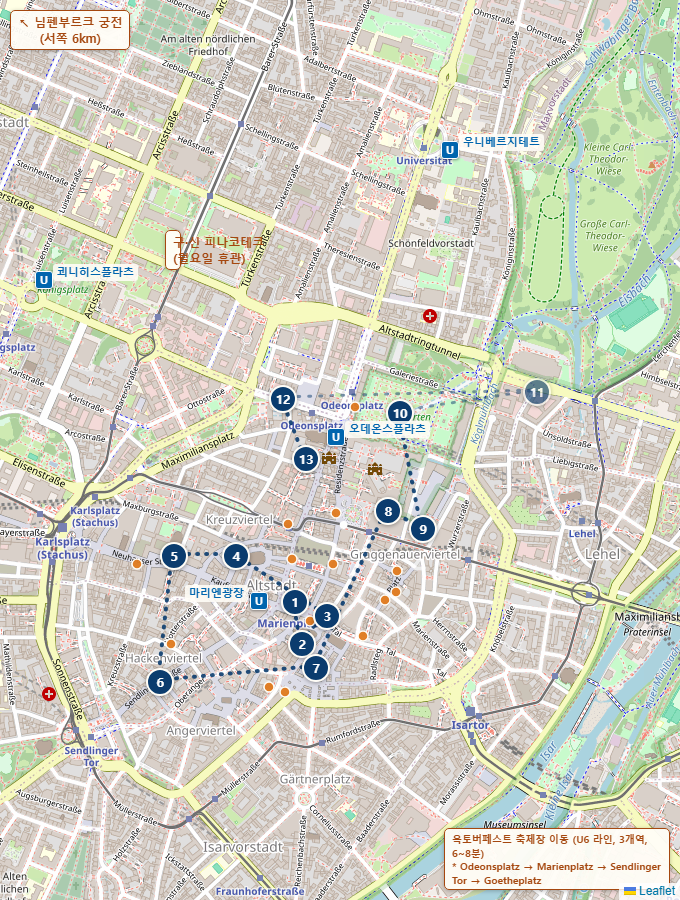
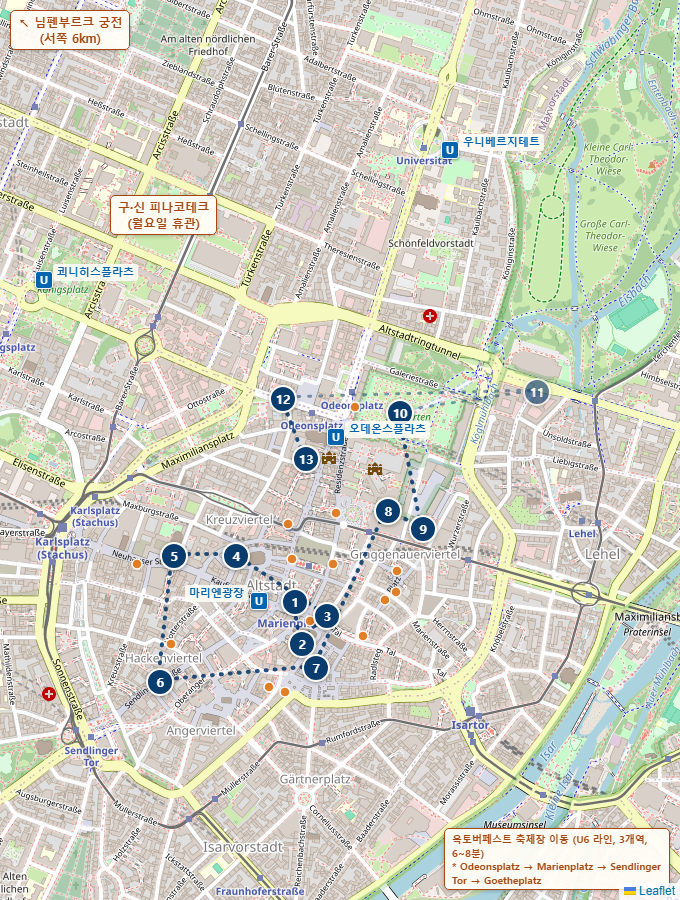
Fix clipped Pinakothek callout label on Munich route map
The old/new Pinakothek reference callout used an L.divIcon marker with
iconSize:[0,0], which clipped its own nowrap text. Rebuilt it as a
raw appended div (same technique already used for the Nymphenburg and
Oktoberfest callouts on this map), which renders with no clipping.

Changed region(s): [[0.1544, 0.2178, 0.3706, 0.3111]]

diff --git a/germany-roadtrip-planner.html b/germany-roadtrip-planner.html
@@ -1776,7 +1776,7 @@ document.addEventListener('DOMContentLoaded', function(){
       <a class="walk-map-link" href="https://www.google.com/maps/dir/?api=1&travelmode=walking&origin=48.1370,11.5758&destination=48.1421,11.5778&waypoints=48.1367%2C11.5756%7C48.1374%2C11.5761%7C48.1387%2C11.5730%7C48.1387%2C11.5703%7C48.1351%2C11.5697%7C48.1355%2C11.5764%7C48.1414%2C11.5786%7C48.1411%2C11.5794%7C48.1428%2C11.5800%7C48.1434%2C11.5859%7C48.1422%2C11.5767" target="_blank" rel="noopener">📍 Google 지도로 도보 코스 보기(마리엔광장역 출발 → 펠트헤른할레 도착) · 총 약 4.3km · 도보 약 56분</a>
       <div class="route-snapshot">
         <div class="route-snapshot-media">
-          <img src="images/routes/muenchen.png?v=11" alt="뮌헨 도보 코스 지도 스냅샷" loading="lazy">
+          <img src="images/routes/muenchen.png?v=12" alt="뮌헨 도보 코스 지도 스냅샷" loading="lazy">
         </div>
         <ol class="route-steps">
         <li><span class="rs-name">마리엔 광장(신시청)</span></li>

diff --git a/index.html b/index.html
@@ -1776,7 +1776,7 @@ document.addEventListener('DOMContentLoaded', function(){
       <a class="walk-map-link" href="https://www.google.com/maps/dir/?api=1&travelmode=walking&origin=48.1370,11.5758&destination=48.1421,11.5778&waypoints=48.1367%2C11.5756%7C48.1374%2C11.5761%7C48.1387%2C11.5730%7C48.1387%2C11.5703%7C48.1351%2C11.5697%7C48.1355%2C11.5764%7C48.1414%2C11.5786%7C48.1411%2C11.5794%7C48.1428%2C11.5800%7C48.1434%2C11.5859%7C48.1422%2C11.5767" target="_blank" rel="noopener">📍 Google 지도로 도보 코스 보기(마리엔광장역 출발 → 펠트헤른할레 도착) · 총 약 4.3km · 도보 약 56분</a>
       <div class="route-snapshot">
         <div class="route-snapshot-media">
-          <img src="images/routes/muenchen.png?v=11" alt="뮌헨 도보 코스 지도 스냅샷" loading="lazy">
+          <img src="images/routes/muenchen.png?v=12" alt="뮌헨 도보 코스 지도 스냅샷" loading="lazy">
         </div>
         <ol class="route-steps">
         <li><span class="rs-name">마리엔 광장(신시청)</span></li>
